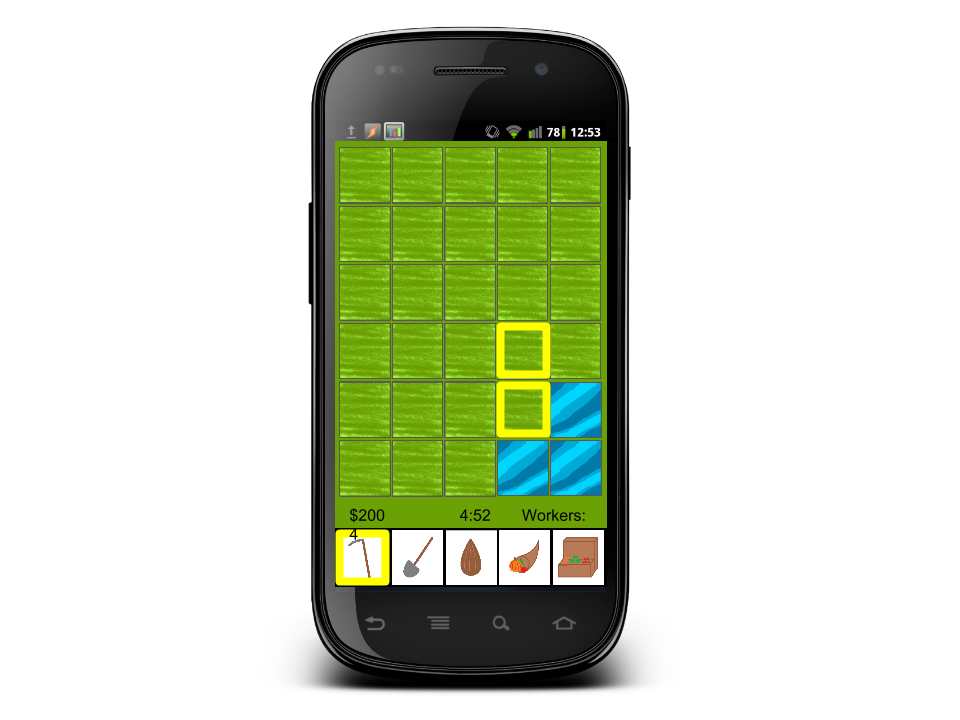
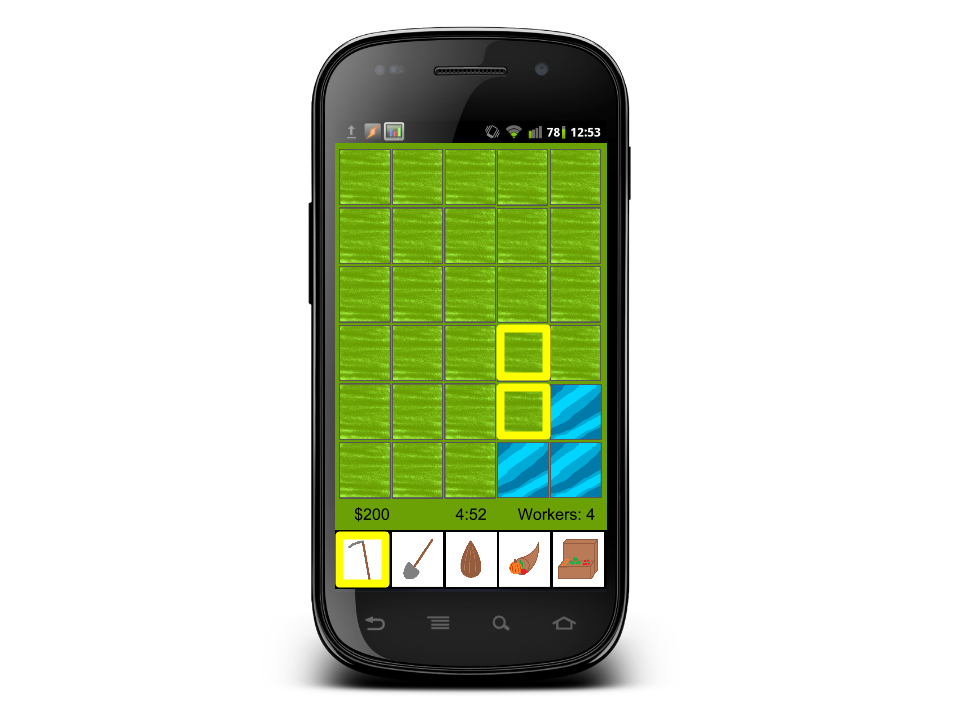
Latest

Changed region(s): [[0.3438, 0.1833, 0.625, 0.825]]

diff --git a/index.html b/index.html
@@ -51,7 +51,8 @@ Anthony Marion & Audrey Meinders
 				</section>
 
 				<section data-markdown>
-# SEMADevelopment
+## SEMADevelopment
+* TODO Details Here
 				</section>
 
 				<section data-markdown>
@@ -62,11 +63,16 @@ But how? {. class="fragment"}
 				</section>
 
 				<section data-markdown>
-## What we came up with
+## Our Idea
 * Farming simulation game
 * Fast-paced
+* Workers
 * Scoring
 * A campaign
+				</section>
+
+				<section data-markdown>
+## But is it a GOOD idea
 				</section>
 
 				<section data-markdown>
@@ -81,6 +87,15 @@ But how? {. class="fragment"}
 * Connectivity and Bandwidth requirements
 * Server infrastructure costs
 * Development time expectations
+				</section>
+
+				<section data-markdown>
+## Prototype
+				</section>
+
+				<section data-markdown>
+## Basic Layout
+![layout](images/BasicLayout.png)
 				</section>
 
 				<section>
